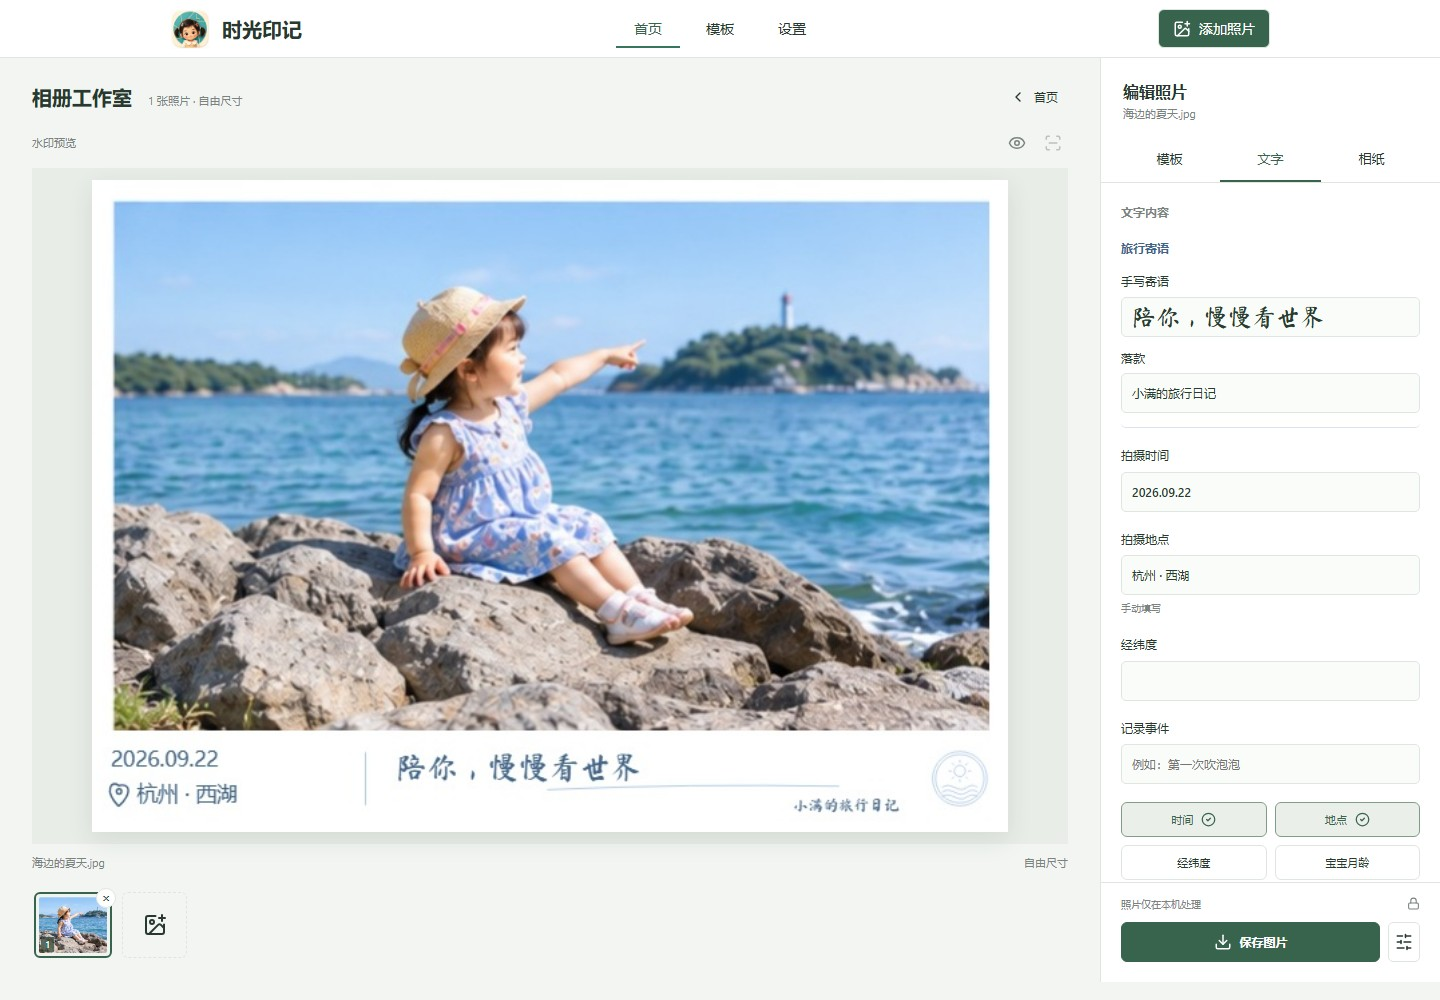
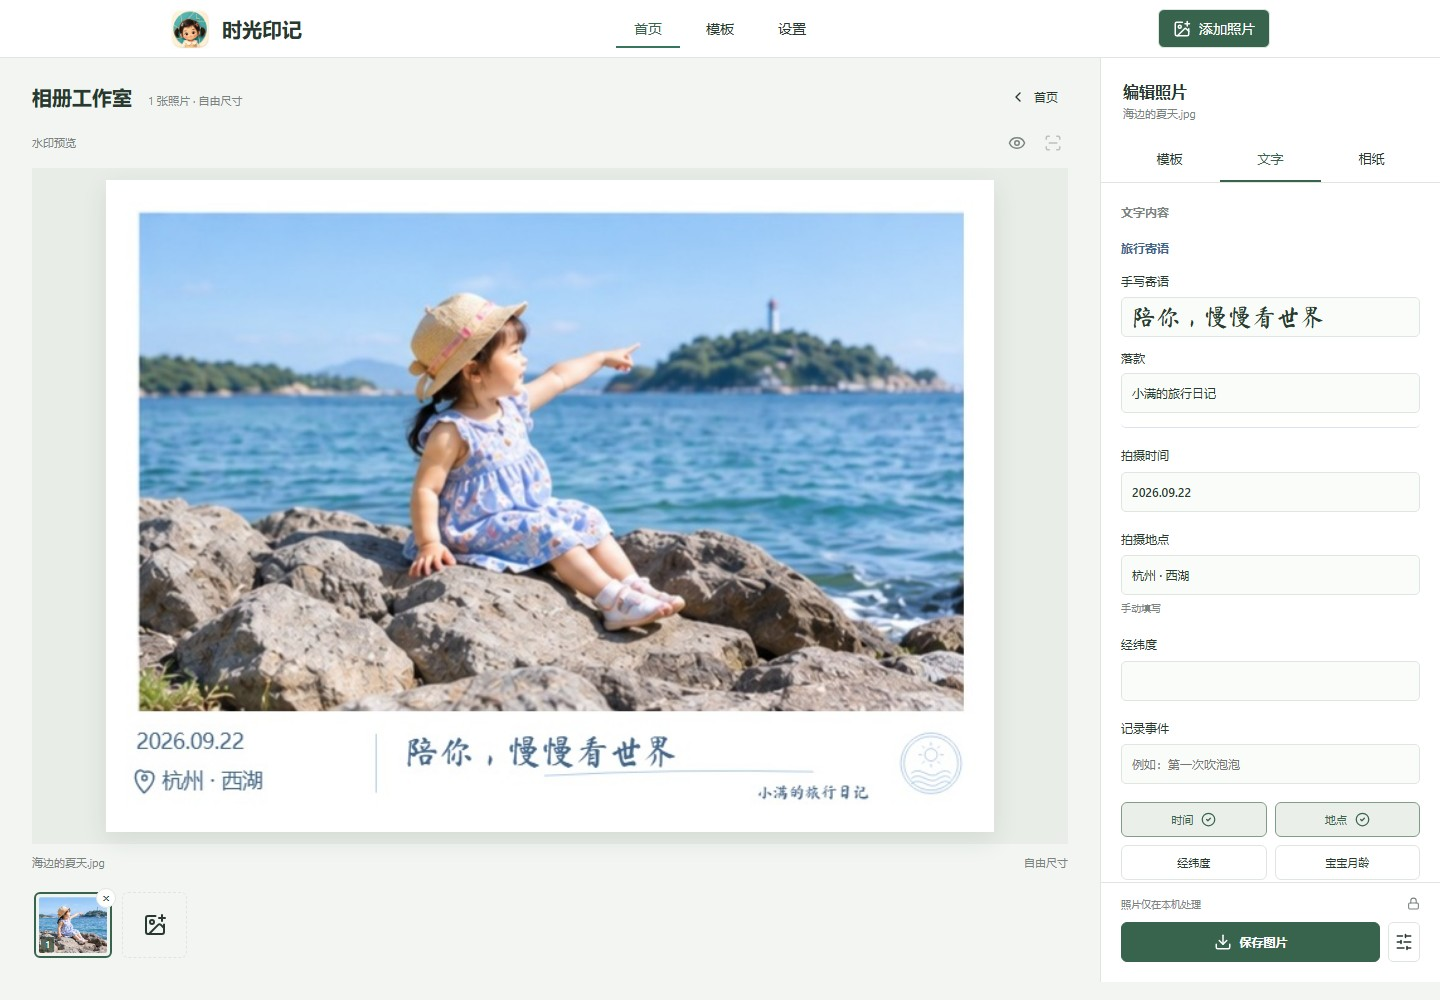
Improve frame spacing and EXIF homepage messaging

Changed region(s): [[0.0625, 0.186, 0.7188, 0.837]]

diff --git a/src/services/watermark-frame.ts b/src/services/watermark-frame.ts
@@ -1,20 +1,29 @@
-import type { RenderOptions, WatermarkStyle } from "../types";
+import type { PrintSettings, RenderOptions, WatermarkStyle } from "../types";
 import { drawPostcard } from "./postcard";
 
 type Frame = WatermarkStyle["frame"];
 type Line = { icon: string; text: string };
 
+export function frameSpacing(unit: number, frame: Frame, style: Partial<WatermarkStyle> = {}, size: PrintSettings["size"] = "original") {
+  const factor = style.frameWidth === "narrow" ? 0.58 : style.frameWidth === "wide" ? 1.4 : 1;
+  const footerScale = Number.isFinite(style.frameFooterScale) ? Math.min(1.5, Math.max(0.85, style.frameFooterScale!)) : 1;
+  const presets = { "3": [50.8, 3, 12, 3], "5": [88.9, 5, 18, 4], "6": [101.6, 6, 21, 5] };
+  const preset = size === "original" ? undefined : presets[size];
+  const inset = preset ? unit / preset[0] * preset[1] * factor : unit * 0.06 * factor;
+  const baseFooter = preset ? unit / preset[0] * preset[2] : unit * 0.24;
+  const footer = baseFooter * (frame === "growth" || frame === "postcard" ? 1 : 0.9) * footerScale;
+  const safe = preset ? unit / preset[0] * preset[3] : unit * 0.045;
+  return { inset, top: inset + (frame === "gallery" || frame === "film" ? unit * 0.055 : 0), footer, safe };
+}
+
 export function frameGeometry(
   width: number,
   height: number,
   frame: Frame = "minimal",
+  style: Partial<WatermarkStyle> = {},
 ) {
   const unit = Math.min(width, height);
-  const inset = unit * 0.035;
-  const top =
-    frame === "gallery" ? unit * 0.1 : frame === "film" ? unit * 0.085 : inset;
-  const footer =
-    unit * (frame === "growth" ? 0.2 : frame === "postcard" ? 0.19 : 0.17);
+  const { inset, top, footer } = frameSpacing(unit, frame, style);
   return {
     width: width + inset * 2,
     height: height + top + footer,
@@ -41,15 +50,17 @@ export function drawFrame(
     image.naturalWidth,
     image.naturalHeight,
     frame,
+    options.style,
   );
   const scale = canvas.width / geometry.width;
-  const inset = free ? geometry.inset * scale : Math.max(margin, unit * 0.025);
+  const spacing = frameSpacing(unit, frame, options.style, options.printSettings?.size);
+  const inset = free ? geometry.inset * scale : spacing.inset;
   const top = free
     ? geometry.top * scale
-    : inset + (frame === "gallery" || frame === "film" ? unit * 0.055 : 0);
+    : Math.max(spacing.top, frame === "gallery" || frame === "film" ? margin + unit * 0.055 : 0);
   const footer = free
     ? geometry.footer * scale
-    : Math.max(unit * (frame === "growth" ? 0.2 : frame === "postcard" ? 0.19 : 0.17), inset * 2.6);
+    : Math.max(spacing.footer, margin + unit * 0.09);
   const width = Math.max(1, canvas.width - inset * 2);
   const height = Math.max(1, canvas.height - top - footer);
   ctx.fillStyle = dark ? "#131514" : frame === "growth" ? "#fffafb" : "#ffffff";
@@ -71,7 +82,7 @@ export function drawFrame(
   );
   ctx.restore();
   const footerTop = canvas.height - footer;
-  const safe = Math.max(margin, inset);
+  const safe = Math.max(margin, spacing.safe, inset);
   const available = Math.max(1, canvas.width - safe * 2);
   if (frame === "postcard") {
     const y = footerTop + unit * 0.02;

diff --git a/src/Studio.tsx b/src/Studio.tsx
@@ -70,7 +70,7 @@ export function StudioHome(props: {
       <main className="studio-home">
         <div className="home-heading">
           <h1>给宝宝照片，留下成长印记</h1>
-          <p>时间、地点，还有那天的小故事。</p>
+          <p>自动读取照片里的拍摄时间与 GPS，<br />为成长瞬间添上日期、地点和那天的小故事。</p>
         </div>
         <section className="home-example" aria-label="水印示例">
           {url ? (
@@ -95,7 +95,7 @@ export function StudioHome(props: {
             </button>
           )}
           <p>
-            无需注册 · 照片不上传 · 免费使用
+            自动读取 EXIF · 照片不上传 · 免费使用
           </p>
         </div>
         <section className="home-templates">
@@ -106,6 +106,11 @@ export function StudioHome(props: {
             template={props.template}
             onChoose={props.onChoose}
           />
+        </section>
+        <section className="home-exif" aria-labelledby="home-exif-title">
+          <h2 id="home-exif-title">照片里的时间，不用重新填写</h2>
+          <p>自动读取原始照片中的 EXIF 拍摄时间与 GPS 坐标，支持本地近似匹配省市。<br />时间、地点和纪念文字，都可以自由修改。</p>
+          <p className="exif-caveat">部分截图或转发照片不含 EXIF，可手动补填；离线地点仅供参考。</p>
         </section>
         <footer className="home-footer">
           <span><img className="brand-icon" src="/icons/brand.png?v=girl-v2" alt="" width={32} height={32} />时光印记</span>

diff --git a/src/App.tsx b/src/App.tsx
@@ -1062,6 +1062,24 @@ function StyleEditor(props: {
         ))}
       </div>
 
+      {props.style.layout === "paper" && <>
+        <div className="settings-field" role="group" aria-label="边框宽度">
+          <span>边框宽度</span>
+          <div className="segmented">
+            {(["narrow", "standard", "wide"] as const).map((width, index) => <button
+              key={width}
+              className={(props.style.frameWidth ?? "standard") === width ? "active" : ""}
+              aria-pressed={(props.style.frameWidth ?? "standard") === width}
+              onClick={() => props.onStyleChange({ ...props.style, frameWidth: width })}
+            >{["窄边", "标准", "宽边"][index]}</button>)}
+          </div>
+        </div>
+        <label className="slider-row">
+          <span>底部留白</span><b>{Math.round((props.style.frameFooterScale ?? 1) * 100)}%</b>
+          <input type="range" min="0.85" max="1.5" step="0.05" value={props.style.frameFooterScale ?? 1}
+            onChange={event => props.onStyleChange({ ...props.style, frameFooterScale: Number(event.target.value) })} />
+        </label>
+      </>}
       <ControlSlider
         label="字体大小"
         value={props.style.fontSizeRatio}

diff --git a/src/studio.css b/src/studio.css
@@ -1127,7 +1127,16 @@ legend {
 .studio-home { max-width: none; padding: 26px 0 0; margin: 0; background: #f4f8f6; }
 .home-heading h1 { font-size: 28px; color: #242c36; }
 .home-heading { margin-bottom: 0; }
-.home-heading p { margin-top: 8px; font-size: 16px; color: #707880; }
+.home-heading p { margin-top: 8px; font-size: 16px; color: #707880; line-height: 1.7; }
+.home-exif { padding: 32px 20px; text-align: center; background: #f3f7f5; border-top: 1px solid #e7ebed; }
+.home-exif h2 { margin: 0 0 12px; font-size: 22px; color: #304437; }
+.home-exif p { max-width: 680px; margin: 0 auto; font-size: 14px; line-height: 1.9; color: #52655a; }
+.home-exif .exif-caveat { margin-top: 12px; font-size: 12px; color: #727e77; }
+@media (max-width: 600px) {
+  .home-exif { padding: 26px 22px; }
+  .home-exif h2 { font-size: 19px; }
+  .home-exif p { font-size: 13px; }
+}
 .home-example { --example-height: 360px; width: 580px; max-width: calc(100% - 40px); margin: 16px auto 0; background: transparent; box-shadow: none; border: 0; overflow: visible; }
 .home-example img { display: block; width: 100%; height: var(--example-height); object-fit: contain; border-radius: 5px; }
 .home-example > img { box-shadow: none; }

diff --git a/src/services/sample.ts b/src/services/sample.ts
@@ -32,7 +32,7 @@ export function loadSamplePhoto(id = "travel-memory") {
         editedDateText: "2026.09.22",
         editedLocationText: "杭州 · 西湖",
         editedCoordinateText: "",
-        eventNote: "",
+        eventNote: id === "classic-date" ? "宝宝两岁生日合影" : "",
       });
     };
     image.onerror = () => {

diff --git a/src/services/watermark.ts b/src/services/watermark.ts
@@ -30,6 +30,7 @@ export async function renderWatermark(options: RenderOptions): Promise<Blob> {
       layout.width,
       layout.height,
       options.style.frame,
+      options.style,
     );
     const scale = Math.min(1, 3200 / Math.max(geometry.width, geometry.height));
     layout.width = geometry.width * scale;

diff --git a/src/types.ts b/src/types.ts
@@ -34,6 +34,8 @@ export interface LocationSettings {
 }
 
 export interface WatermarkStyle {
+  frameWidth?: "narrow" | "standard" | "wide";
+  frameFooterScale?: number;
   postcardStamp?: boolean;
   postcardUnderline?: boolean;
   layout?: "overlay" | "paper";
